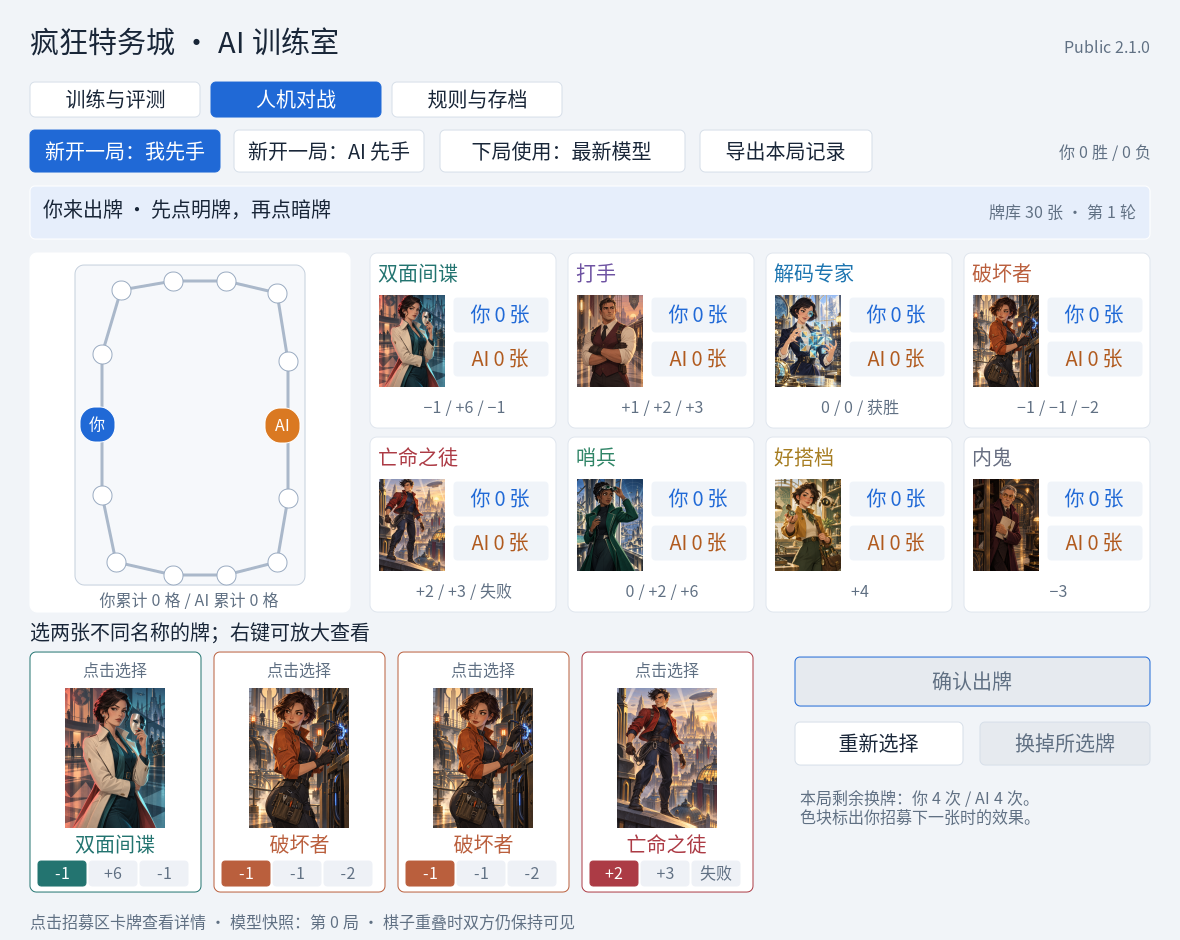
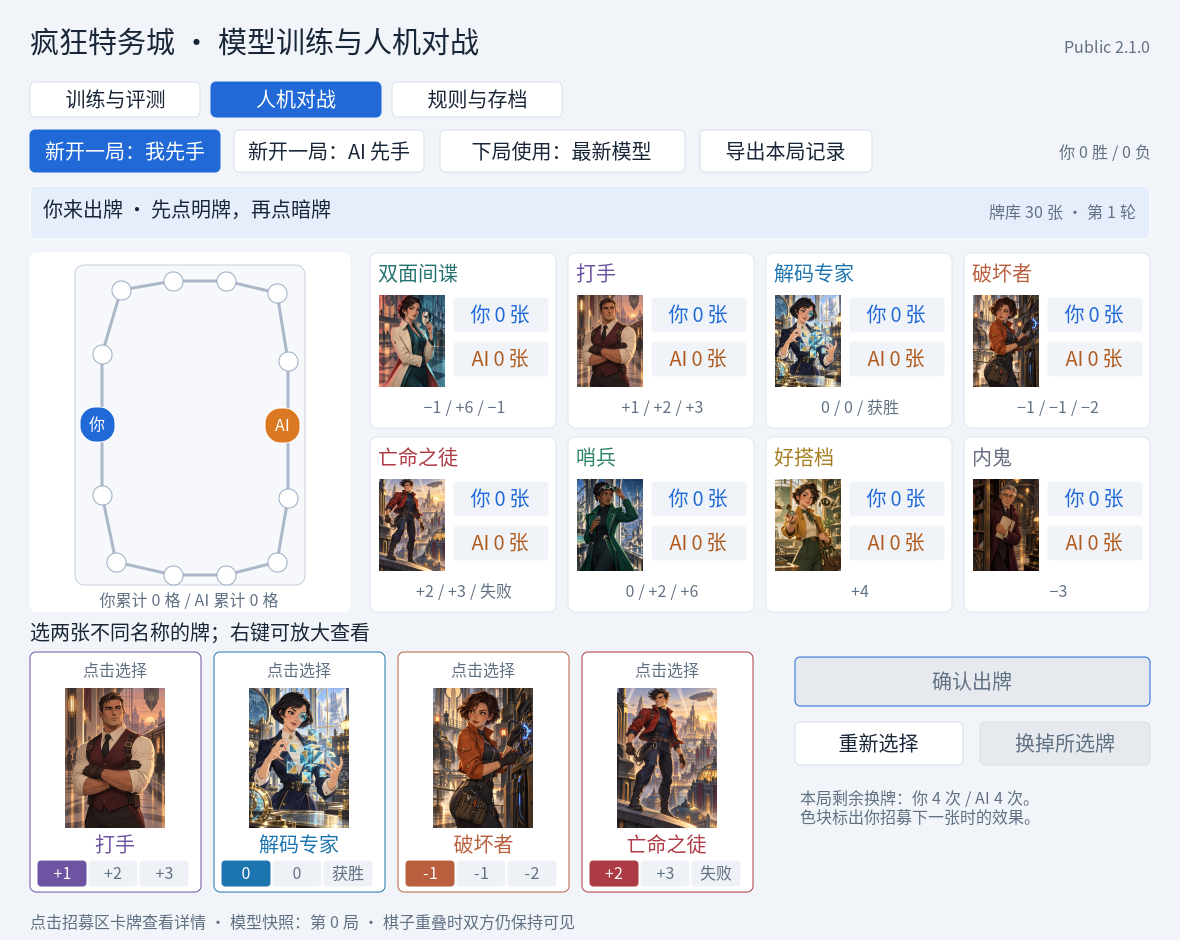
Use clearer product naming

Changed region(s): [[0.0305, 0.7096, 0.3051, 0.9564], [0.1831, 0.0309, 0.4271, 0.0617]]

diff --git a/src/windows.cpp b/src/windows.cpp
@@ -265,7 +265,7 @@ void drawHelp(HDC dc){
 void paint(HWND hwnd){
  PAINTSTRUCT ps;HDC target=BeginPaint(hwnd,&ps);RECT client;GetClientRect(hwnd,&client);HDC dc=CreateCompatibleDC(target);HBITMAP bitmap=CreateCompatibleBitmap(target,1180,CANVAS_H);auto old=SelectObject(dc,bitmap);
  HBRUSH brush=CreateSolidBrush(bg);RECT canvas{0,0,1180,CANVAS_H};FillRect(dc,&canvas,brush);DeleteObject(brush);hits.clear();
- textAt(dc,30,24,740,46,L"疯狂特务城 · AI 训练室",titleFont);textAt(dc,831,37,319,26,L"Agent Avenue AI Lab  /  Public 2.1.0",smallFont,muted,DT_RIGHT|DT_SINGLELINE);
+ textAt(dc,30,24,740,46,L"疯狂特务城 · 模型训练与人机对战",titleFont);textAt(dc,831,37,319,26,L"Agent Avenue AI  /  Public 2.1.0",smallFont,muted,DT_RIGHT|DT_SINGLELINE);
  button(dc,30,82,170,35,L"训练与评测",1,true,tab==0);button(dc,211,82,170,35,L"人机对战",2,true,tab==1);button(dc,392,82,170,35,L"规则与存档",3,true,tab==2);
  if(tab==0)drawTrain(dc);else if(tab==1)drawPlay(dc);else drawHelp(dc);drawInspector(dc);
  double sc=std::min(client.right/1180.0,client.bottom/double(CANVAS_H));int dw=int(1180*sc),dh=int(CANVAS_H*sc),ox=(client.right-dw)/2,oy=(client.bottom-dh)/2;
@@ -319,7 +319,7 @@ void background(){
  }catch(const std::exception&e){running=false;busyEval=false;std::string s=e.what();{std::lock_guard<std::mutex>lock(mx);statusText=L"保存或训练失败："+std::wstring(s.begin(),s.end());}PostMessageW(windowHandle,WM_APP+2,0,0);}
 }
 void exportLog(){
- std::wstring text=L"Agent Avenue AI Lab 对局公开记录（v2.1.0）\r\n";for(auto&v:gameLog)text+=v+L"\r\n";
+ std::wstring text=L"Agent Avenue AI 对局公开记录（v2.1.0）\r\n";for(auto&v:gameLog)text+=v+L"\r\n";
  text+=L"\r\n最终公开招募数：\r\n";for(int k=0;k<K;k++)text+=std::wstring(names[k])+L"：你 "+num(duel.pile[0][k])+L" / AI "+num(duel.pile[1][k])+L"\r\n";
  int n=WideCharToMultiByte(CP_UTF8,0,text.data(),int(text.size()),nullptr,0,nullptr,nullptr);std::string bytes(n,0);WideCharToMultiByte(CP_UTF8,0,text.data(),int(text.size()),bytes.data(),n,nullptr,nullptr);
  auto path=saveDir/L"last-game.txt";std::ofstream out(path,std::ios::binary);out<<"\xef\xbb\xbf"<<bytes;out.close();require(bool(out),"Cannot export game log");ShellExecuteW(windowHandle,L"open",path.c_str(),nullptr,nullptr,SW_SHOWNORMAL);
@@ -372,7 +372,7 @@ LRESULT CALLBACK proc(HWND hwnd,UINT msg,WPARAM wp,LPARAM lp){
   if(worker.joinable())worker.join();threadFailed=true;
   if(closing){if(MessageBoxW(hwnd,(status+L"\n是否退出并保留最近一次成功保存的进度？").c_str(),L"无法保存",MB_YESNO|MB_ICONERROR)==IDYES){DestroyWindow(hwnd);return 0;}}
   else MessageBoxW(hwnd,(status+L"\n请检查存档目录的空间与权限。已存在的存档保留；解决问题后可点击继续训练重试。").c_str(),L"训练 / 存档错误",MB_ICONERROR);
-  closing=false;quit=false;SetWindowTextW(hwnd,L"疯狂特务城 AI 训练室");return 0;}
+  closing=false;quit=false;SetWindowTextW(hwnd,L"疯狂特务城 · 模型训练与人机对战");return 0;}
  case WM_DESTROY:PostQuitMessage(0);return 0;
  }return DefWindowProcW(hwnd,msg,wp,lp);
 }
@@ -393,7 +393,7 @@ int WINAPI wWinMain(HINSTANCE instance,HINSTANCE,PWSTR,int show){
   WNDCLASSW wc{};wc.lpfnWndProc=proc;wc.hInstance=instance;wc.lpszClassName=L"AgentAvenueAIWindow";wc.hCursor=LoadCursorW(nullptr,IDC_ARROW);wc.hIcon=LoadIconW(nullptr,IDI_APPLICATION);RegisterClassW(&wc);
   initArt();
   RECT frame{0,0,1180,CANVAS_H};AdjustWindowRect(&frame,WS_OVERLAPPEDWINDOW,FALSE);
-  windowHandle=CreateWindowW(wc.lpszClassName,L"疯狂特务城 AI 训练室",WS_OVERLAPPEDWINDOW,CW_USEDEFAULT,CW_USEDEFAULT,std::min(frame.right-frame.left,LONG(GetSystemMetrics(SM_CXSCREEN)-60)),std::min(frame.bottom-frame.top,LONG(GetSystemMetrics(SM_CYSCREEN)-90)),nullptr,nullptr,instance,nullptr);require(windowHandle!=nullptr,"Cannot create window");
+  windowHandle=CreateWindowW(wc.lpszClassName,L"疯狂特务城 · 模型训练与人机对战",WS_OVERLAPPEDWINDOW,CW_USEDEFAULT,CW_USEDEFAULT,std::min(frame.right-frame.left,LONG(GetSystemMetrics(SM_CXSCREEN)-60)),std::min(frame.bottom-frame.top,LONG(GetSystemMetrics(SM_CYSCREEN)-90)),nullptr,nullptr,instance,nullptr);require(windowHandle!=nullptr,"Cannot create window");
   ShowWindow(windowHandle,show);SetTimer(windowHandle,1,40,nullptr);SetTimer(windowHandle,2,500,nullptr);worker=std::thread(background);
   MSG msg;while(GetMessageW(&msg,nullptr,0,0)>0){TranslateMessage(&msg);DispatchMessageW(&msg);}quit=true;if(worker.joinable())worker.join();
   freeArt();DeleteObject(smallFont);DeleteObject(normalFont);DeleteObject(boldFont);DeleteObject(titleFont);DeleteObject(numberFont);CloseHandle(singleton);return 0;

diff --git a/tests/ui_checks.cpp b/tests/ui_checks.cpp
@@ -7,7 +7,7 @@ void drawArt(HDC dc,int i,int x,int y,int w,int h){
 }
 void render(const std::string&path){
  svg.str("");svg.clear();hits.clear();clipId=0;svg<<"<svg xmlns='http://www.w3.org/2000/svg' xmlns:xlink='http://www.w3.org/1999/xlink' width='1180' height='940' viewBox='0 0 1180 940'>";
- box(0,{0,0,1180,940},bg,bg,0);textAt(0,30,24,740,46,L"疯狂特务城 · AI 训练室",titleFont);
+ box(0,{0,0,1180,940},bg,bg,0);textAt(0,30,24,740,46,L"疯狂特务城 · 模型训练与人机对战",titleFont);
  textAt(0,831,37,319,26,L"Public 2.1.0",smallFont,muted,DT_RIGHT|DT_SINGLELINE);
  button(0,30,82,170,35,L"训练与评测",1,true,tab==0);button(0,211,82,170,35,L"人机对战",2,true,tab==1);button(0,392,82,170,35,L"规则与存档",3,true,tab==2);
  if(tab==0)drawTrain(0);else if(tab==1)drawPlay(0);else drawHelp(0);drawInspector(0);svg<<"</svg>";std::ofstream(path)<<svg.str();

diff --git a/README.md b/README.md
@@ -1,8 +1,10 @@
-# Agent Avenue AI Lab
+# Agent Avenue AI / 疯狂特务城 · 模型训练与人机对战
 
-[简体中文](README.zh-CN.md) · [Evaluation](docs/EVALUATION.md) · [Architecture](docs/ARCHITECTURE.md) · [Project role](PROJECT_ROLE.md)
+[English details](#highlights) · [简体中文完整说明](README.zh-CN.md) · [Evaluation](docs/EVALUATION.md) · [Architecture](docs/ARCHITECTURE.md) · [Project role](PROJECT_ROLE.md)
 
-An unofficial, open-source C++17 self-play reinforcement-learning project for the standard two-player base game of *Agent Avenue*. It provides a Windows desktop application for continued training, checkpoint-safe resume, model evaluation, and human-vs-AI play.
+**English:** An unofficial, open-source C++17 self-play reinforcement-learning project for the standard two-player base game of *Agent Avenue*. It provides a Windows desktop application for continued training, checkpoint-safe resume, model evaluation, and human-vs-AI play.
+
+**简体中文：** 一个面向《疯狂特务城》（*Agent Avenue*）标准双人基础玩法的开源桌游 AI 项目。项目使用 C++17 实现隐藏信息博弈和自对弈强化学习，提供 CUDA 加速训练、断点续训、模型评测，以及带原创角色插画的 Windows 可视化人机对战程序。[阅读完整中文说明 →](README.zh-CN.md)
 
 ![Human versus AI interface with original illustrated cards](docs/screenshots/play-ui.png)
 

diff --git a/assets/cards/README.md b/assets/cards/README.md
@@ -1,6 +1,6 @@
 # Original card artwork
 
-These eight human-agent illustrations were created specifically for Agent Avenue AI Lab under the visual direction of Liu Hongyu with assistance from an AI image-generation tool.
+These eight human-agent illustrations were created specifically for the Agent Avenue AI project under the visual direction of Liu Hongyu with assistance from an AI image-generation tool.
 
 They are original project assets and do not copy or contain artwork from the commercial game. Character names and mechanics are rendered separately by the application so the art remains language-neutral.
 

diff --git a/README.zh-CN.md b/README.zh-CN.md
@@ -1,4 +1,4 @@
-# 疯狂特务城 AI 训练室（公开版）
+# 疯狂特务城 · 模型训练与人机对战（公开版）
 
 [English](README.md) · [模型评测](docs/EVALUATION.md) · [架构说明](docs/ARCHITECTURE.md) · [项目分工](PROJECT_ROLE.md)
 

diff --git a/docs/RELEASE_NOTES_v2.1.0.md b/docs/RELEASE_NOTES_v2.1.0.md
@@ -1,4 +1,4 @@
-# Agent Avenue AI Lab — Public 2.1.0
+# Agent Avenue AI — Public 2.1.0
 
 First public Windows release of the training and human-vs-AI application.
 
